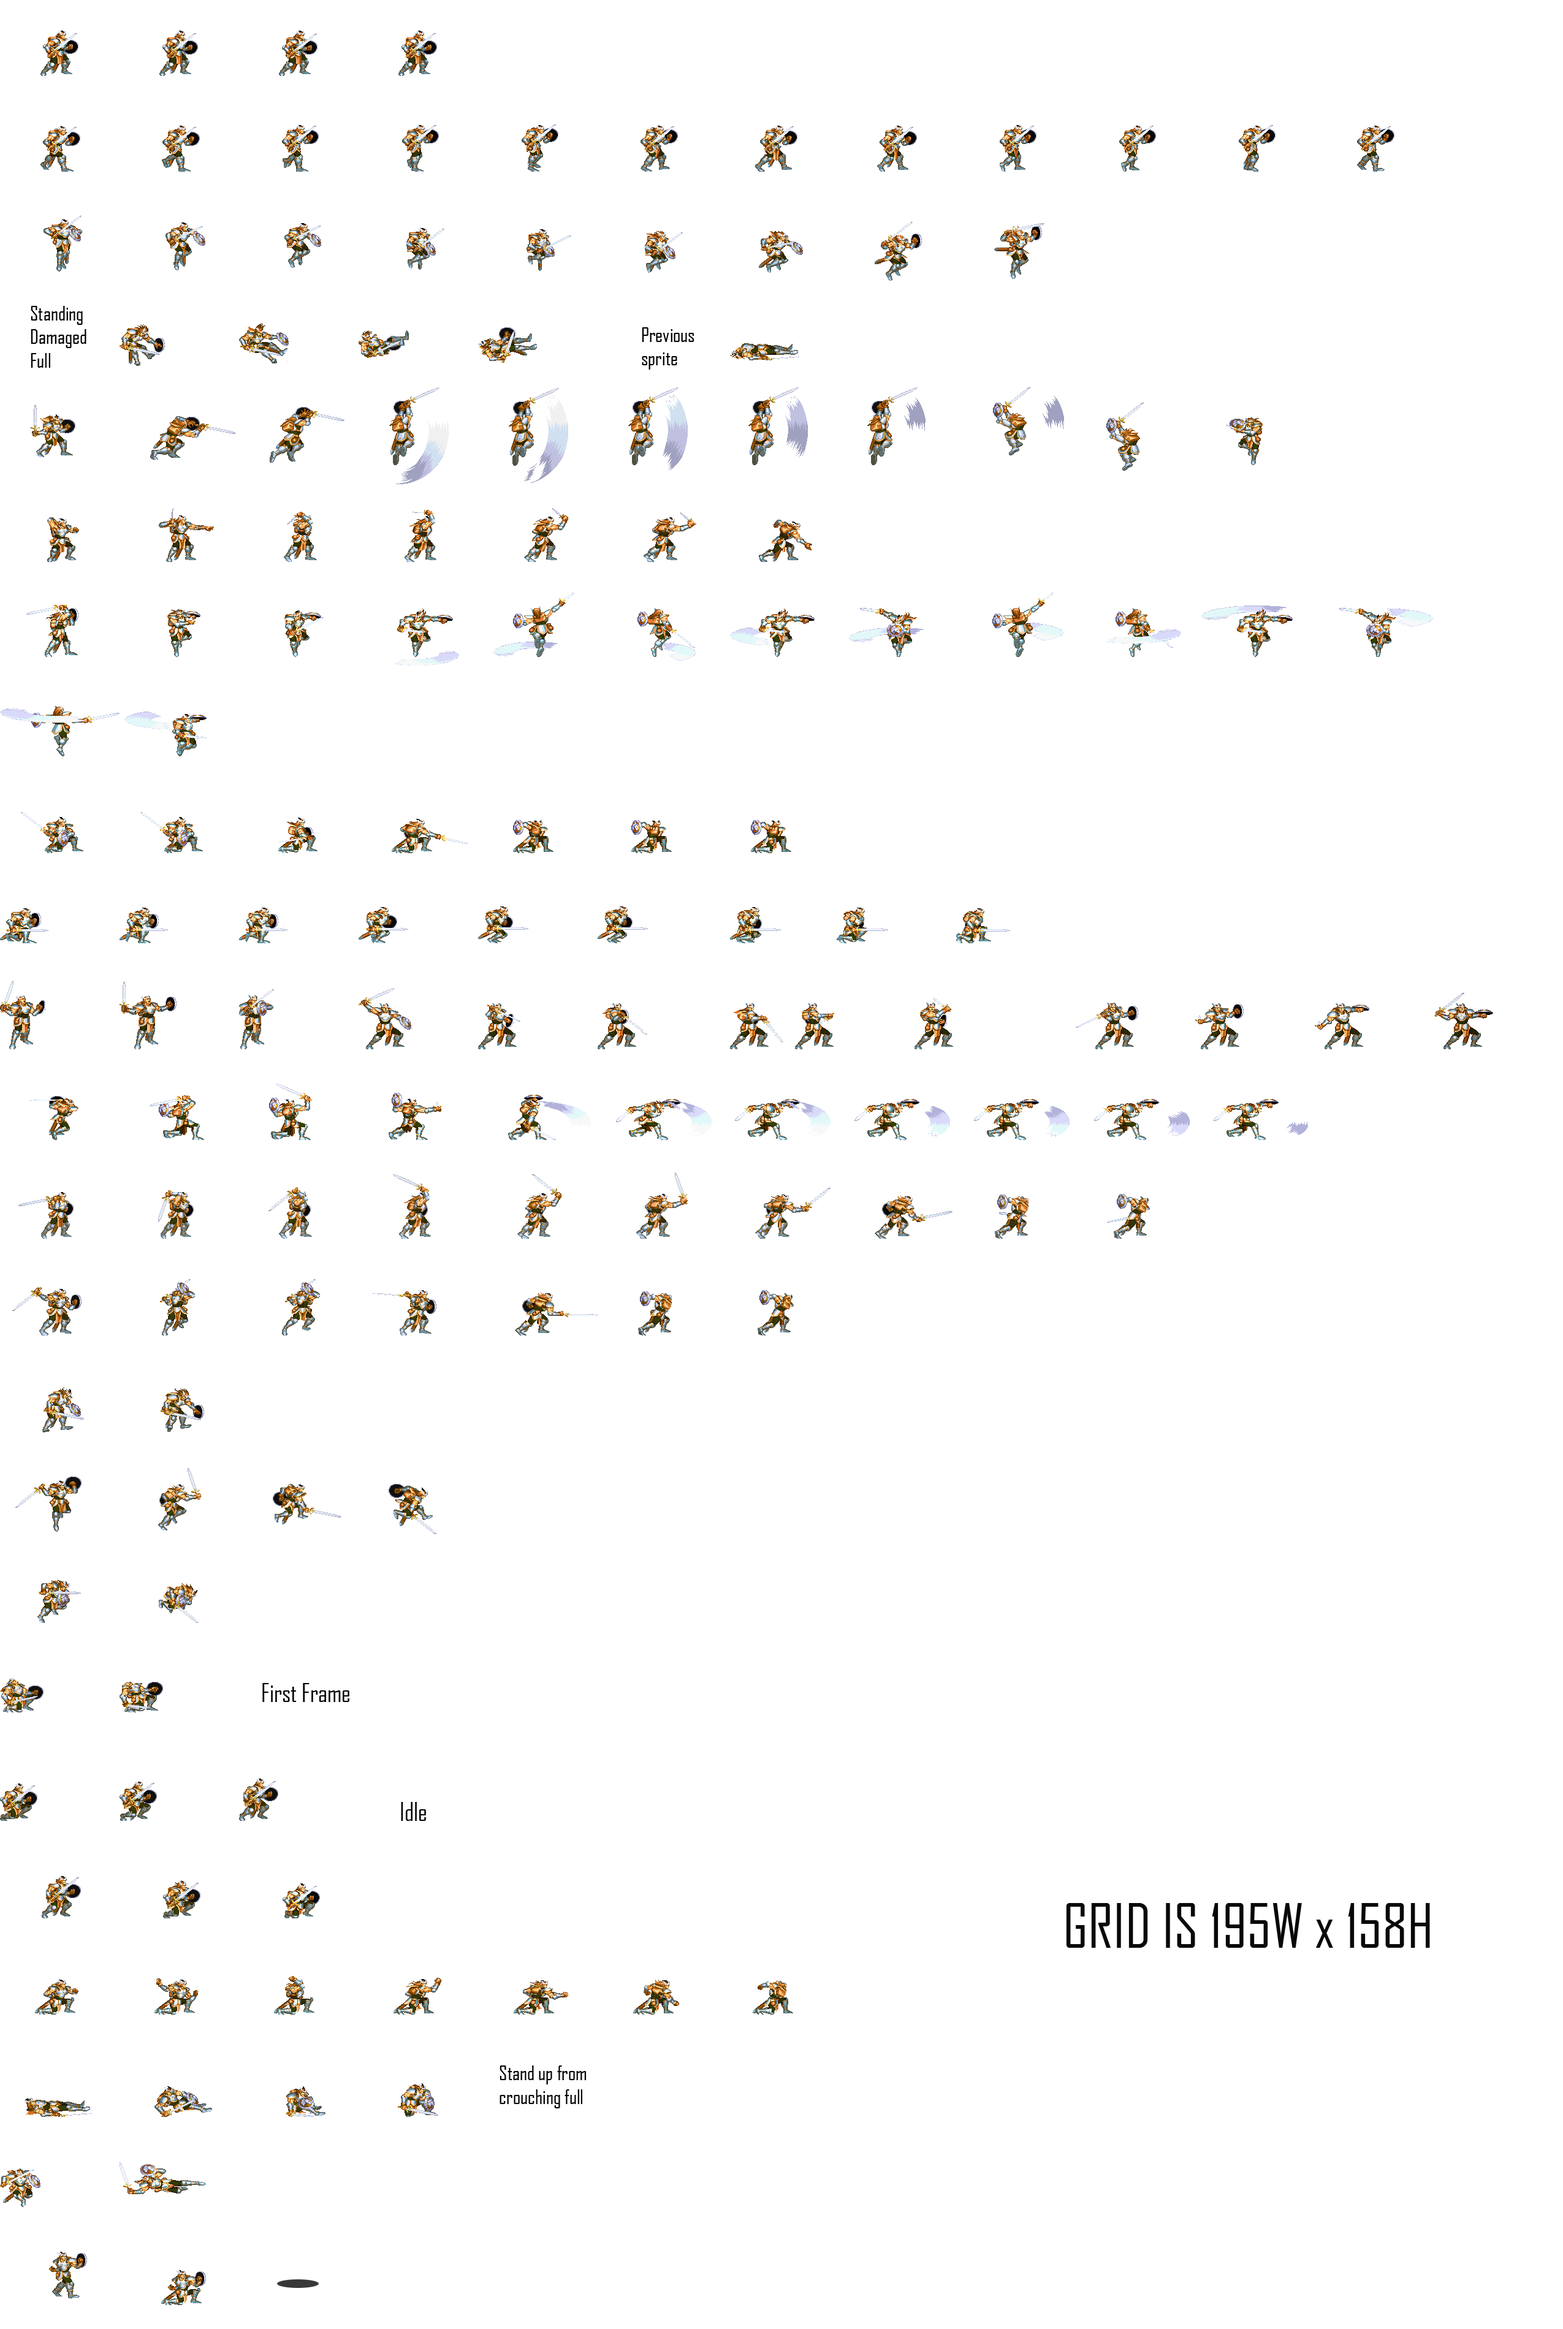
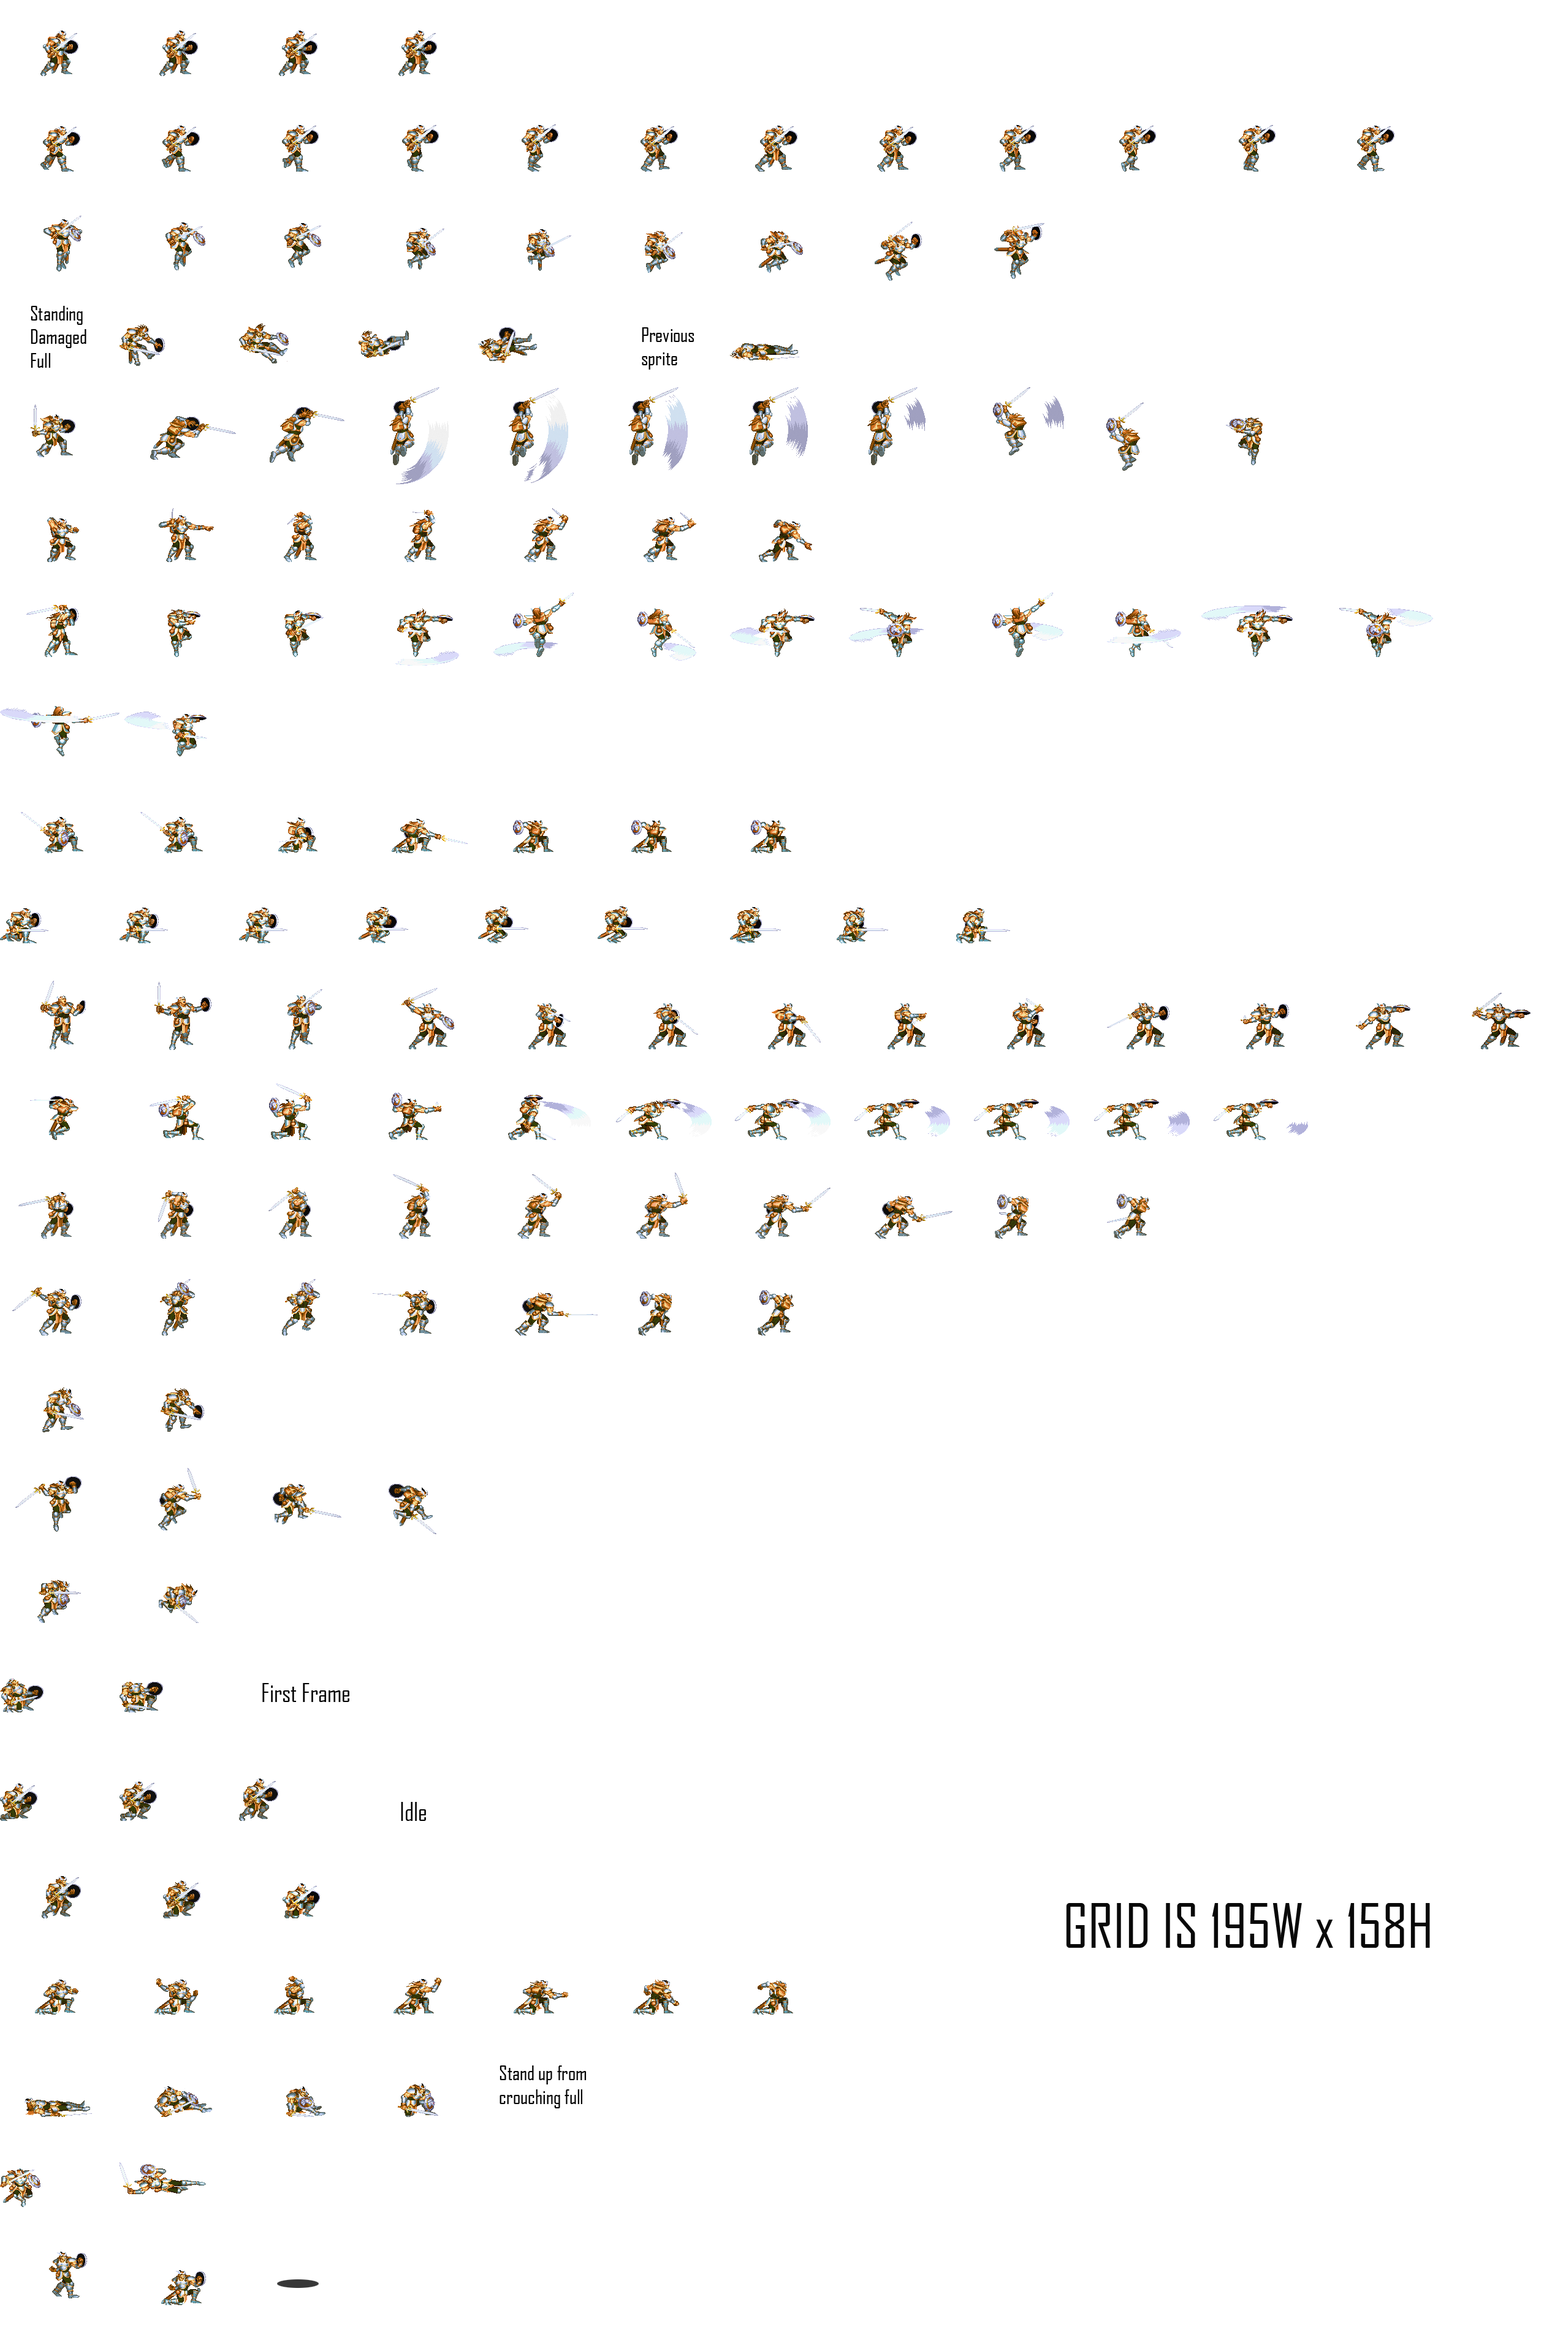
Changed inicialization and added taunt
Also function to return items

diff --git a/src/Character.cpp b/src/Character.cpp
@@ -9,7 +9,11 @@
 #include "mdParticleSystem.h"
 #include "mdEntities.h"
 
-Character::Character(character_deff character) {
+Character::Character(character_deff character, int x_pos, int _fliped, int skin) {
+	// Constructor inicialization
+	fliped = _fliped;
+	logic_position.x = x_pos;
+	skin_id = skin;
 	// Basic attack definitions
 	st_l = character.st_l;
 	st_h = character.st_h;
@@ -42,7 +46,7 @@ Character::Character(character_deff character) {
 	invencibility_on_wakeup = character.invencibility_on_wakeup;
 	scale = character.scale;
 	non_flip_attacks = character.non_flip_attacks;
-	normal_taunt_duration = 500;
+	normal_taunt_duration = 1500;
 	shadow_rect = { 452, 3719, 68, 14 };
 	shadow_offset = 105;
 	// Runtime inicialization
@@ -124,14 +128,16 @@ void Character::update(const bool(&inputs)[MAX_INPUTS]) {
 		}
 		else if (inputs[DOWN])
 			updateState(CROUCHING);
-		else if (inputs[LIGHT_ATTACK]) 
-			updateState(ATTACKING, ST_L); 
-		else if (inputs[HEAVY_ATTACK]) 
+		else if (inputs[LIGHT_ATTACK])
+			updateState(ATTACKING, ST_L);
+		else if (inputs[HEAVY_ATTACK])
 			updateState(ATTACKING, ST_H);
-		else if (inputs[SPECIAL_1] && standingSpecial1Condition()) 
+		else if (inputs[SPECIAL_1] && standingSpecial1Condition())
 			updateState(ATTACKING, ST_S1);
-		else if (inputs[SPECIAL_2]) 
+		else if (inputs[SPECIAL_2])
 			updateState(ATTACKING, ST_S2);
+		else if (inputs[GRAB])
+			tauntFor(normal_taunt_duration);
 
 		break;
 
@@ -450,6 +456,13 @@ void Character::update(const bool(&inputs)[MAX_INPUTS]) {
 		}
 		break;
 	case TAUNT:
+		if (!state_first_tick) {
+			updateAnimation(taunt);
+			playCurrentSFX();
+			state_first_tick = true;
+		}
+		if (taunt_duration < (SDL_GetTicks() - taunt_start))
+			updateState(IDLE);
 		break;
 
 
@@ -1243,6 +1256,10 @@ bool Character::juggleLimit(CHAR_ATT_TYPE type) {
 		return true;
 	else
 		return false;
-		
+}
 
+void Character::tauntFor(int _taunt_duration) {
+	taunt_start = SDL_GetTicks();
+	taunt_duration = _taunt_duration;
+	updateState(TAUNT);
 }

diff --git a/src/Warrior.cpp b/src/Warrior.cpp
@@ -5,9 +5,9 @@
 #include "mdEntities.h"
 #include "mdParticleSystem.h"
 
-Warrior::Warrior(character_deff character, int x_pos, bool _fliped, int skin) : Character(character) {
+Warrior::Warrior(character_deff character, int x_pos, bool _fliped, int skin) : Character(character, x_pos, _fliped, skin) {
 
-	skin_id = skin;
+
 	//PROVISIONAL: Animations should be loaded from the xml
 	//Animations
 	idle.PushBack({ 0,0,195,158 });
@@ -251,9 +251,23 @@ Warrior::Warrior(character_deff character, int x_pos, bool _fliped, int skin) : 
 	jumping_special2.speed = character.jm_s2.animation_speed;
 	jumping_special2.angle = 30;
 
-	// Constructor inicialization
-	fliped = _fliped;
-	logic_position.x = x_pos;
+	taunt.PushBack({ 0		, 158 * 10, 195, 158 });
+	taunt.PushBack({ 195    , 158 * 10, 195, 158 });
+	taunt.PushBack({ 195 * 2, 158 * 10, 195, 158 });
+	taunt.PushBack({ 195 * 3, 158 * 10, 195, 158 });
+	taunt.PushBack({ 195 * 4, 158 * 10, 195, 158 });
+	taunt.PushBack({ 195 * 5, 158 * 10, 195, 158 });
+	taunt.PushBack({ 195 * 6, 158 * 10, 195, 158 });
+	taunt.PushBack({ 195 * 7, 158 * 10, 195, 158 });
+	taunt.PushBack({ 195 * 8, 158 * 10, 195, 158 });
+	taunt.PushBack({ 195 * 9, 158 * 10, 195, 158 });
+	taunt.PushBack({ 195 * 10, 158 * 10, 195, 158 });
+	taunt.PushBack({ 195 * 11, 158 * 10, 195, 158 });
+	taunt.PushBack({ 195 * 12, 158 * 10, 195, 158 });
+
+	taunt.loop = false;
+	taunt.speed = 0.2;
+
 	type = CHAR_TYPE::WARRIOR;
 
 	// WARRIOR EXCLUSIVE VARS
@@ -612,4 +626,14 @@ bool Warrior::jumpingSpecial2Condition() {
 }
 bool Warrior::standingSpecial1Condition() {
 	return App->projectiles->lookForProjectileType(WARRIOR_KNIFE, (Character*)this) == 0;
+}
+
+ITEMS Warrior::getItem() {
+	if (spin_object)
+		return SPECIAL_ITEM_1;
+	if (dive_kick_object)
+		return SPECIAL_ITEM_2;
+
+	return NO_ITEM;
+
 }

diff --git a/src/Mage.cpp b/src/Mage.cpp
@@ -7,7 +7,7 @@
 #include "Player.h"
 #include "ParticleEmitter.h"
 
-Mage::Mage(character_deff character, int x_pos, bool _fliped, int skin) : Character(character) {
+Mage::Mage(character_deff character, int x_pos, bool _fliped, int skin) : Character(character, x_pos, _fliped, skin) {
 
 	//PROVISIONAL: Animations should be loaded from the xml
 	//Animations
@@ -223,10 +223,6 @@ Mage::Mage(character_deff character, int x_pos, bool _fliped, int skin) : Charac
 
 	super_anim.loop = false;
 	super_anim.speed = character.super.animation_speed;
-	// Constructor inicialization
-	fliped = _fliped;
-	logic_position.x = x_pos;
-	skin_id = skin;
 	type = CHAR_TYPE::MAGE;
 
 	//MAGE EXCLUSIVE VARS
@@ -571,4 +567,14 @@ void Mage::giveItem(ITEMS type) {
 void Mage::takeAllItems() {
 	charge_fireball_item = false;
 	double_fireball_item = false;
+}
+
+ITEMS Mage::getItem() {
+	if (charge_fireball_item)
+		return SPECIAL_ITEM_1;
+	if (charge_fireball_item)
+		return SPECIAL_ITEM_2;
+
+	return NO_ITEM;
+
 }

diff --git a/src/Character.h b/src/Character.h
@@ -113,7 +113,7 @@ struct character_deff;
 
 class Character {
 public:
-	Character(character_deff character);
+	Character(character_deff character, int x_pos, int _fliped, int skin);
 	~Character();
 						
 	virtual void update(const bool (&inputs)[MAX_INPUTS]);	
@@ -138,6 +138,7 @@ public:
 	int getMaxLife() const;
 	int getCurrentSuperGauge() const;
 	int getMaxSuperGauge() const;
+	virtual ITEMS getItem() const { return NO_ITEM; };
 	bool notAllowFlip();
 	CHAR_TYPE getType() const;
 	void resetCharacter();
@@ -145,6 +146,9 @@ public:
 	// Item management
 	virtual void giveItem(ITEMS type) { return; }
 	virtual void takeAllItems() { return; }
+
+	// Taunt management
+	void tauntFor(int _taunt_duration);
 protected:	
 	// Execute attack, rewritable for every type of character
 	virtual void doAttack(const bool(&inputs)[MAX_INPUTS]);

diff --git a/src/Paladin.cpp b/src/Paladin.cpp
@@ -8,9 +8,7 @@
 #include "ParticleEmitter.h"
 
 
-Paladin::Paladin(character_deff character, int x_pos, bool _fliped, int skin): Character(character) {
-
-	skin_id = skin;
+Paladin::Paladin(character_deff character, int x_pos, bool _fliped, int skin): Character(character, x_pos, _fliped, skin) {
 
 	idle.PushBack({ 0,0,195,158 });
 	idle.PushBack({ 195,0,195,158 });
@@ -166,12 +164,7 @@ Paladin::Paladin(character_deff character, int x_pos, bool _fliped, int skin): C
 	dead.loop = false;
 	dead.speed = 0.1;
 
-
-	// Constructor inicialization
-	fliped = _fliped;
-	logic_position.x = x_pos;
 	type = CHAR_TYPE::PALADIN;
-
 
 	//PALADIN EXCLUSIVE BARS
 	// XML inicialization

diff --git a/src/Rogue.cpp b/src/Rogue.cpp
@@ -9,7 +9,7 @@
 
 
 
-Rogue::Rogue(character_deff character, int x_pos, bool _fliped, int skin) : Character(character) {
+Rogue::Rogue(character_deff character, int x_pos, bool _fliped, int skin) : Character(character, x_pos, _fliped, skin) {
 	idle.PushBack({ 0,0,195,158 });
 	idle.PushBack({ 195,0,195,158 });
 	idle.PushBack({ 195 * 2,0,195,158 });
@@ -21,9 +21,6 @@ Rogue::Rogue(character_deff character, int x_pos, bool _fliped, int skin) : Char
 	idle.loop = true;
 	idle.speed = 0.2;
 
-	// Constructor inicialization
-	fliped = _fliped;
-	logic_position.x = x_pos;
 	type = CHAR_TYPE::ROGUE;
 
 }

diff --git a/src/Warrior.h b/src/Warrior.h
@@ -22,6 +22,7 @@ public:
 
 	void giveItem(ITEMS type);
 	void takeAllItems();
+	ITEMS getItem();
 
 	void updateAnimationOnBasicAttack(CHAR_ATT_TYPE type); // Just to use for super
 

diff --git a/src/Mage.h b/src/Mage.h
@@ -23,6 +23,7 @@ public:
 
 	void giveItem(ITEMS type);
 	void takeAllItems();
+	ITEMS getItem();
 
 private:
 	int fireball_speed;
